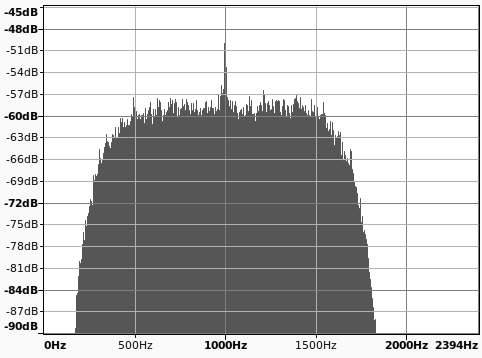
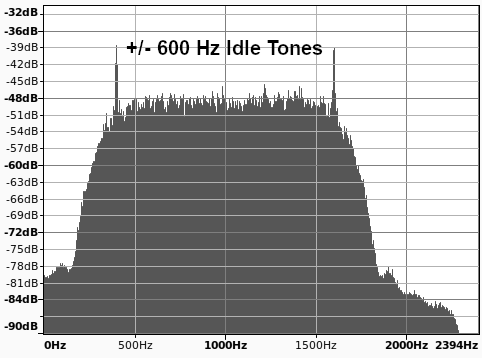
Fix idle symbols

Changed region(s): [[0.0, 0.0307, 0.9959, 0.9525]]

diff --git a/src/kiss_frame.c b/src/kiss_frame.c
@@ -40,20 +40,21 @@ int kiss_encapsulate(unsigned char *in, int ilen, unsigned char *out)
     out[olen++] = FEND;
     for (j = 0; j < ilen; j++)
     {
+        unsigned char chr = in[j];
 
-        if (in[j] == FEND)
+        if (chr == FEND)
         {
             out[olen++] = FESC;
             out[olen++] = TFEND;
         }
-        else if (in[j] == FESC)
+        else if (chr == FESC)
         {
             out[olen++] = FESC;
             out[olen++] = TFESC;
         }
         else
         {
-            out[olen++] = in[j];
+            out[olen++] = chr;
         }
     }
     out[olen++] = FEND;
@@ -94,8 +95,9 @@ static int kiss_unwrap(unsigned char *in, int ilen, unsigned char *out)
 
     for (; j < ilen; j++)
     {
+        unsigned char chr = in[j];
 
-        if (in[j] == FEND)
+        if (chr == FEND)
         {
             fprintf(stderr, "KISS frame should not have FEND in the middle.\n");
         }
@@ -103,28 +105,28 @@ static int kiss_unwrap(unsigned char *in, int ilen, unsigned char *out)
         if (escaped_mode)
         {
 
-            if (in[j] == TFESC)
+            if (chr == TFESC)
             {
                 out[olen++] = FESC;
             }
-            else if (in[j] == TFEND)
+            else if (chr == TFEND)
             {
                 out[olen++] = FEND;
             }
             else
             {
-                fprintf(stderr, "KISS protocol error.  Found 0x%02x after FESC.\n", in[j]);
+                fprintf(stderr, "KISS protocol error.  Found 0x%02x after FESC.\n", chr);
             }
 
             escaped_mode = 0;
         }
-        else if (in[j] == FESC)
+        else if (chr == FESC)
         {
             escaped_mode = 1;
         }
         else
         {
-            out[olen++] = in[j];
+            out[olen++] = chr;
         }
     }
 
@@ -136,7 +138,6 @@ static int kiss_unwrap(unsigned char *in, int ilen, unsigned char *out)
  */
 void kiss_rec_byte(kiss_frame_t *kf, unsigned char chr, int client)
 {
-
     switch (kf->state)
     {
 
@@ -153,7 +154,6 @@ void kiss_rec_byte(kiss_frame_t *kf, unsigned char chr, int client)
     case KS_COLLECTING: /* Frame collection in progress. */
         if (chr == FEND)
         {
-
             unsigned char unwrapped[AX25_MAX_PACKET_LEN];
 
             /* End of frame. */

diff --git a/src/il2p_send.c b/src/il2p_send.c
@@ -11,6 +11,7 @@
 
 #include <stdio.h>
 #include <stdlib.h>
+#include <stdbool.h>
 #include <string.h>
 
 #include "ipnode.h"
@@ -108,14 +109,27 @@ int il2p_send_frame(packet_t pp)
     return number_of_bits_sent;
 }
 
+static bool flip = false;
+
 /*
  * Send txdelay and txtail to modulator
  */
 void il2p_send_idle(int nbits)
 {
-    for (int i = 0; i < nbits; i++)
+    for (int i = 0; i < (nbits / 2); i++)
     {
-        put_bit(0);
+        if (flip == false)
+        {
+            put_bit(0);
+            put_bit(0);
+            flip = true;
+        }
+        else
+        {
+            put_bit(1);
+            put_bit(1);
+            flip = false;
+        }
     }
 
     number_of_bits_sent += nbits;

diff --git a/src/tx.c b/src/tx.c
@@ -47,10 +47,10 @@ static int tx_bits_per_sec;
 #define BITS_TO_MS(b) (((b)*1000) / tx_bits_per_sec)
 #define MS_TO_BITS(ms) (((ms)*tx_bits_per_sec) / 1000)
 
-static void *tx_thread(void *arg);
-static bool wait_for_clear_channel(int slotttime, int persist, bool fulldup);
-static void tx_frames(int prio, packet_t pp);
-static int send_one_frame(packet_t pp);
+static void *tx_thread(void *);
+static bool wait_for_clear_channel(int, int, bool);
+static void tx_frames(int, packet_t);
+static int send_one_frame(packet_t);
 static void tx_symbol(complex float);
 
 static pthread_t tx_tid;

diff --git a/src/ipnode.c b/src/ipnode.c
@@ -186,14 +186,5 @@ void app_process_rec_packet(packet_t pp)
 
     int flen = ax25_pack(pp, fbuf);
 
-#ifdef DEBUG
-    for (int i = 0; i < flen; i++)
-    {
-       fprintf(stderr, "%02X", fbuf[i]);
-    }
-
-    fprintf(stderr, "\n");
-#endif
-
     kisspt_send_rec_packet(KISS_CMD_DATA_FRAME, fbuf, flen); // KISS pseudo terminal
 }

diff --git a/src/audio.h b/src/audio.h
@@ -71,8 +71,7 @@ extern "C"
 #define DEFAULT_PERSIST 63
 #define DEFAULT_TXDELAY 10
 #define DEFAULT_TXTAIL 10
-//#define DEFAULT_FULLDUP 0
-#define DEFAULT_FULLDUP 1    //  testing
+#define DEFAULT_FULLDUP 0
 
     int audio_open(struct audio_s *);
     int audio_get(void);

diff --git a/src/demod.c b/src/demod.c
@@ -83,7 +83,7 @@ static void detect_preamble()
 void demod_init(struct audio_s *pa)
 {
     save_audio_config_p = pa;
-    dcdDetect = 1;
+    dcdDetect = 0;
 
     m_rxRect = cmplxconj((TAU * CENTER) / FS);
     m_rxPhase = cmplx(0.0f);
